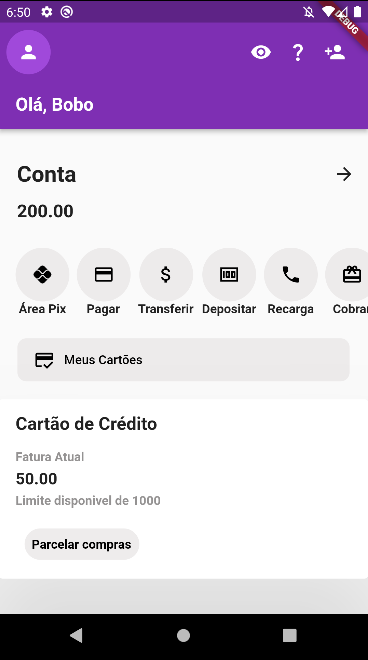
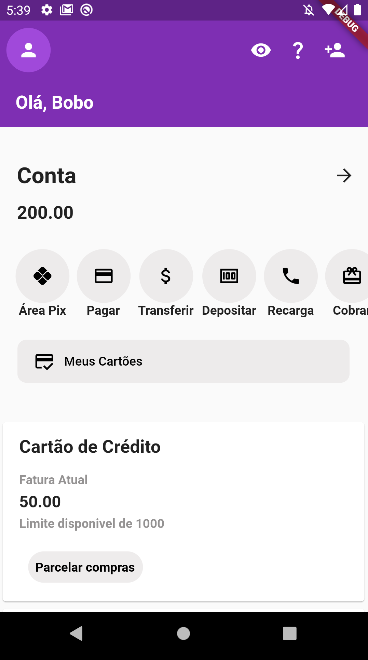
Scrollable and New Cards

diff --git a/lib/main.dart b/lib/main.dart
@@ -32,7 +32,7 @@ class Home extends StatelessWidget {
     double heightCard = 200;
 
     //Appbar
-    final nuBar = AppBar(
+    final nuBar = SliverAppBar(
       toolbarHeight: height * 0.18,
       backgroundColor: const Color.fromARGB(255, 126, 47, 179),
       actions: [NuBar(height, width)],
@@ -40,93 +40,101 @@ class Home extends StatelessWidget {
 
     //Inicio do App
     return Scaffold(
-        appBar: nuBar,
-        body: Column(
-          mainAxisAlignment: MainAxisAlignment.start,
-          children: [
-            SizedBox(
-              height: height * 0.04,
-            ),
-            Flexible(
-              child: Row(
-                children: [
-                  Padding(
-                    padding: const EdgeInsets.symmetric(horizontal: 20),
-                    child: SizedBox(
-                      width: width * 0.3,
-                      child: const Text(
-                        'Conta',
+        body: NestedScrollView(
+          headerSliverBuilder: ((context, innerBoxIsScrolled) => [
+            nuBar,
+          ]),
+          
+          body: SingleChildScrollView(
+            child: Column(
+              mainAxisAlignment: MainAxisAlignment.start,
+              children: [
+                const SizedBox(
+                  height: 30,
+                ),
+                Row(
+                  children: [
+                    Padding(
+                      padding: const EdgeInsets.symmetric(horizontal: 20),
+                      child: SizedBox(
+                        width: width * 0.3,
+                        child: const Text(
+                          'Conta',
+                          style: TextStyle(
+                            fontWeight: FontWeight.bold,
+                            fontSize: 25,
+                          ),
+                        ),
+                      ),
+                    ),
+                    SizedBox(
+                      width: width * 0.48,
+                    ),
+                    IconButton(
+                        onPressed: () {}, icon: const Icon(Icons.arrow_forward))
+                  ],
+                ),
+        
+                //Construindo o dinheiro da conta
+                const Align(
+                    alignment: Alignment.centerLeft,
+                    child: Padding(
+                      padding: EdgeInsets.symmetric(horizontal: 20, vertical: 5),
+                      child: Text(
+                        '200.00',
                         style: TextStyle(
+                          fontSize: 20,
                           fontWeight: FontWeight.bold,
-                          fontSize: 25,
                         ),
                       ),
-                    ),
-                  ),
-                  SizedBox(
-                    width: width * 0.48,
-                  ),
-                  IconButton(
-                      onPressed: () {}, icon: const Icon(Icons.arrow_forward))
-                ],
-              ),
+                    )),
+        
+                const SizedBox(
+                  height: 25,
+                ),
+        
+                //Chamando o sideicons
+                Align(
+                  alignment: Alignment.centerLeft,
+                  child: SideIcons(width, height),
+                ),
+        
+                const SizedBox(
+                  height: 25,
+                ),
+        
+                //Meus Cartões
+                Container(
+                  width: width * 0.9,
+                  decoration: const BoxDecoration(
+                      color: Color.fromARGB(185, 231, 229, 229),
+                      borderRadius: BorderRadius.all(Radius.circular(10))),
+                  child: TextButton(
+                      onPressed: () {},
+                      child: Row(
+                        children: const [
+                          Padding(
+                            padding: EdgeInsets.symmetric(horizontal: 10),
+                            child: Icon(
+                              Icons.credit_score,
+                              color: Colors.black,
+                            ),
+                          ),
+                          Text(
+                            'Meus Cartões',
+                            style: TextStyle(color: Colors.black),
+                          ),
+                        ],
+                      )),
+                ),
+                const SizedBox(
+                  height: 40,
+                ),
+        
+                Cards(width, heightCard),
+              ],
             ),
-        
-            //Construindo o dinheiro da conta
-            const Align(
-                alignment: Alignment.centerLeft,
-                child: Padding(
-                  padding: EdgeInsets.symmetric(horizontal: 20, vertical: 5),
-                  child: Text(
-                    '200.00',
-                    style: TextStyle(
-                      fontSize: 20,
-                      fontWeight: FontWeight.bold,
-                    ),
-                  ),
-                )),
-        
-            const SizedBox(
-              height: 25,
-            ),
-        
-            //Chamando o sideicons
-            Align(
-              alignment: Alignment.centerLeft,
-              child: SideIcons(width, height),
-            ),
-        
-            const SizedBox(
-              height: 25,
-            ),
-        
-            //Meus Cartões
-            Container(
-              width: width * 0.9,
-              decoration: const BoxDecoration(
-                  color: Color.fromARGB(185, 231, 229, 229),
-                  borderRadius: BorderRadius.all(Radius.circular(10))),
-              child: TextButton(
-                  onPressed: () {},
-                  child: Row(
-                    children: const [
-                      Padding(
-                        padding: EdgeInsets.symmetric(horizontal: 10),
-                        child: Icon(
-                          Icons.credit_score,
-                          color: Colors.black,
-                        ),
-                      ),
-                      Text(
-                        'Meus Cartões',
-                        style: TextStyle(color: Colors.black),
-                      ),
-                    ],
-                  )),
-            ),
-        
-          Cards(width, heightCard),
-          ],
+          ),
         ));
   }
 }

diff --git a/lib/body/cards.dart b/lib/body/cards.dart
@@ -1,7 +1,6 @@
 import 'package:flutter/material.dart';
 
 class Cards extends StatelessWidget {
-
   final double width;
   final double heightCard;
 
@@ -11,9 +10,7 @@ class Cards extends StatelessWidget {
   Widget build(BuildContext context) {
     return Column(
       children: [
-        Card(
-          elevation: 200,
-          margin: const EdgeInsets.symmetric(vertical: 20),
+        Card( //Cartão de Credito
           child: SizedBox(
               width: width,
               height: heightCard,
@@ -42,8 +39,8 @@ class Cards extends StatelessWidget {
                         ),
                       ),
                     ),
-                    Padding(
-                      padding: const EdgeInsets.symmetric(vertical: 3),
+                    const Padding(
+                      padding: EdgeInsets.symmetric(vertical: 3),
                       child: Text(
                         '50.00',
                         style: TextStyle(
@@ -80,6 +77,107 @@ class Cards extends StatelessWidget {
                               color: Colors.black,
                             ),
                           ),
+                        ),
+                      ),
+                    ),
+                  ],
+                ),
+              )),
+        ),
+        Card( //Emprestimo
+          child: SizedBox(
+              width: width,
+              height: heightCard * 0.7,
+              child: Padding(
+                padding: EdgeInsets.symmetric(horizontal: width * 0.045),
+                child: Column(
+                  crossAxisAlignment: CrossAxisAlignment.start,
+                  children: const [
+                    Padding(
+                      padding: EdgeInsets.symmetric(vertical: 15),
+                      child: Text(
+                        'Empréstimo',
+                        style: TextStyle(
+                          fontWeight: FontWeight.bold,
+                          fontSize: 20,
+                        ),
+                      ),
+                    ),
+                    Padding(
+                      padding: EdgeInsets.symmetric(vertical: 3),
+                      child: Text(
+                        'Você tem um emprestimo de 1 bilhão de dolares para pedir uma solicitação apenas de um clique',
+                        style: TextStyle(
+                          fontWeight: FontWeight.bold,
+                          color: Color.fromARGB(184, 107, 104, 104),
+                        ),
+                      ),
+                    ),
+                  ],
+                ),
+              )),
+        ),
+        Card( //Investimento
+          child: SizedBox(
+              width: width,
+              height: heightCard * 0.9,
+              child: Padding(
+                padding: EdgeInsets.symmetric(horizontal: width * 0.045),
+                child: Column(
+                  crossAxisAlignment: CrossAxisAlignment.start,
+                  children: [
+                    const Padding(
+                      padding: EdgeInsets.symmetric(vertical: 15),
+                      child: Text(
+                        'Investimento',
+                        style: TextStyle(
+                          fontWeight: FontWeight.bold,
+                          fontSize: 20,
+                        ),
+                      ),
+                    ),
+                    const Padding(
+                      padding: EdgeInsets.symmetric(vertical: 3),
+                      child: Text(
+                        'O jeitinho do Bobo de investir, gastar 500 horas no NFT worlds e a moeda falir logo em seguida',
+                        style: TextStyle(
+                          fontWeight: FontWeight.bold,
+                          color: Color.fromARGB(184, 107, 104, 104),
+                        ),
+                      ),
+                    ),
+                    Padding(
+                      padding: const EdgeInsets.symmetric(vertical: 20),
+                      child: Container(
+                        height: 45,
+                        decoration: const BoxDecoration(
+                          borderRadius: BorderRadius.all(Radius.circular(20)),
+                          color: Color.fromARGB(185, 231, 229, 229),
+                        ),
+                        child: Container(
+                          width: width * 0.9,
+                          decoration: const BoxDecoration(
+                              color: Color.fromARGB(185, 231, 229, 229),
+                              borderRadius:
+                                  BorderRadius.all(Radius.circular(10))),
+                          child: TextButton(
+                              onPressed: () {},
+                              child: Row(
+                                children: const [
+                                  Padding(
+                                    padding:
+                                        EdgeInsets.symmetric(horizontal: 10),
+                                    child: Icon(
+                                      Icons.pie_chart_outline,
+                                      color: Colors.black,
+                                    ),
+                                  ),
+                                  Text(
+                                    'Meu Pedacinho do NuBank',
+                                    style: TextStyle(color: Colors.black),
+                                  ),
+                                ],
+                              )),
                         ),
                       ),
                     ),

diff --git a/lib/body/sideicons.dart b/lib/body/sideicons.dart
@@ -9,7 +9,7 @@ class SideIcons extends StatelessWidget {
 
 
   @override
-  Widget build(BuildContext) {
+  Widget build(BuildContext context) {
     return SingleChildScrollView(
       scrollDirection: Axis.horizontal,
       child: Row(
@@ -232,6 +232,9 @@ class SideIcons extends StatelessWidget {
                 ),
               ),
             ],
+          ),
+          SizedBox(
+            width: width * 0.045,
           ),
         ],
       ),
